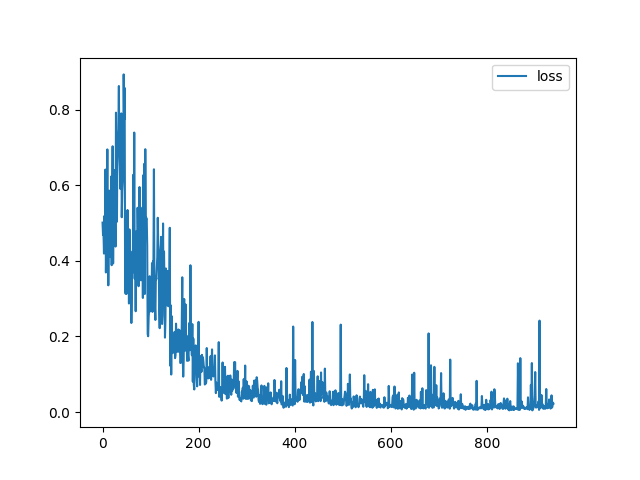
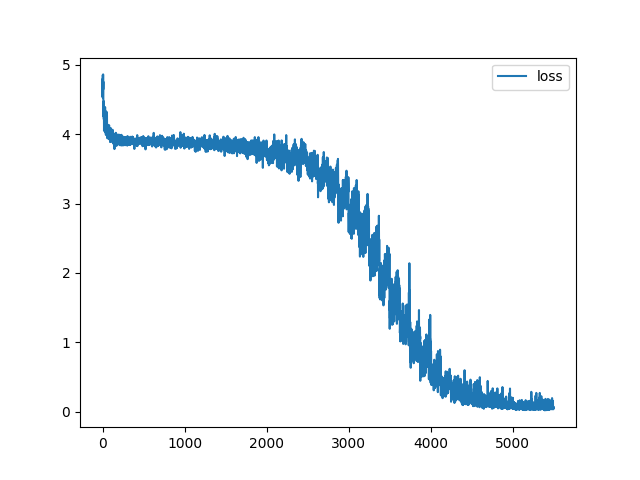
8000 dataset trained and plotted

diff --git a/Naman/remove0s.py b/Naman/remove0s.py
@@ -1,0 +1,33 @@
+import numpy as np 
+from helperFunctions import *
+
+def f(a):
+	##array is 3d
+	##size is 300x25x3
+	first = 0
+	last = 300
+	zeros = np.zeros((25, 3))
+	if not (a[299, :, :]==0).all():
+		return a
+	while (first<last):
+		middle = (first + last)//2
+		if (a[middle,:,:] == 0).all():
+			last = middle
+		else:
+			first = middle + 1
+	firstZeroIndex = min(first, last)
+	currentIndex = firstZeroIndex
+	while currentIndex + firstZeroIndex < 300:
+		a[currentIndex:currentIndex+firstZeroIndex,:,:] = a[:firstZeroIndex,:,:]
+		currentIndex += firstZeroIndex
+	howMuch = 300 - currentIndex
+	a[currentIndex:] = a[:howMuch]
+	return a
+
+trainData = getData()
+
+for i in range(trainData.shape[0]):
+	print(i)
+	trainData[i,:,:,:] = f(trainData[i,:,:,:])
+
+np.save(open("Final-Data2/train_data.npy", 'wb'), trainData)

diff --git a/Naman/helperFunctions.py b/Naman/helperFunctions.py
@@ -7,13 +7,13 @@ import keras
 
 def getData():
 	model = np.load('../datasets/NTU/xsub/Final-Data/train_data.npy')
-	model = np.swapaxes(np.swapaxes(model[:,:,:,:],1,3),1,2)[:3000,:,:,:]
+	model = np.swapaxes(np.swapaxes(model[:,:,:,:],1,3),1,2)#[:8000,:,:,:]
 	return model
 
 def getLabels():
 	model = np.load('../datasets/NTU/xsub/Final-Data/train_labels.npy')
 	labels = model
-	labels = labels.reshape(-1,1)[:3000,:]
+	labels = labels.reshape(-1,1)#[:8000,:]
 	return labels
 
 def getValData():

diff --git a/Naman/conv3.py b/Naman/conv3.py
@@ -11,11 +11,10 @@ class PlotLosses(keras.callbacks.Callback):
 	def __init__(self):
 		super(PlotLosses, self).__init__()
 		self.losses = []
-		
+		self.x = []
+
 	def on_train_begin(self, logs={}):
 		self.i = 0
-		self.x = []
-		
 		self.fig = plt.figure()
 		
 		self.logs = []
@@ -105,4 +104,4 @@ def Schedule(l):
 		change_lr(tup[0])
 		train(epochs=tup[1])
 
-Schedule([(1e-3,10),(1e-4,10),(1e-5,20)])	
+Schedule([(1e-3,100),(1e-4,50),(1e-5,100)])	
